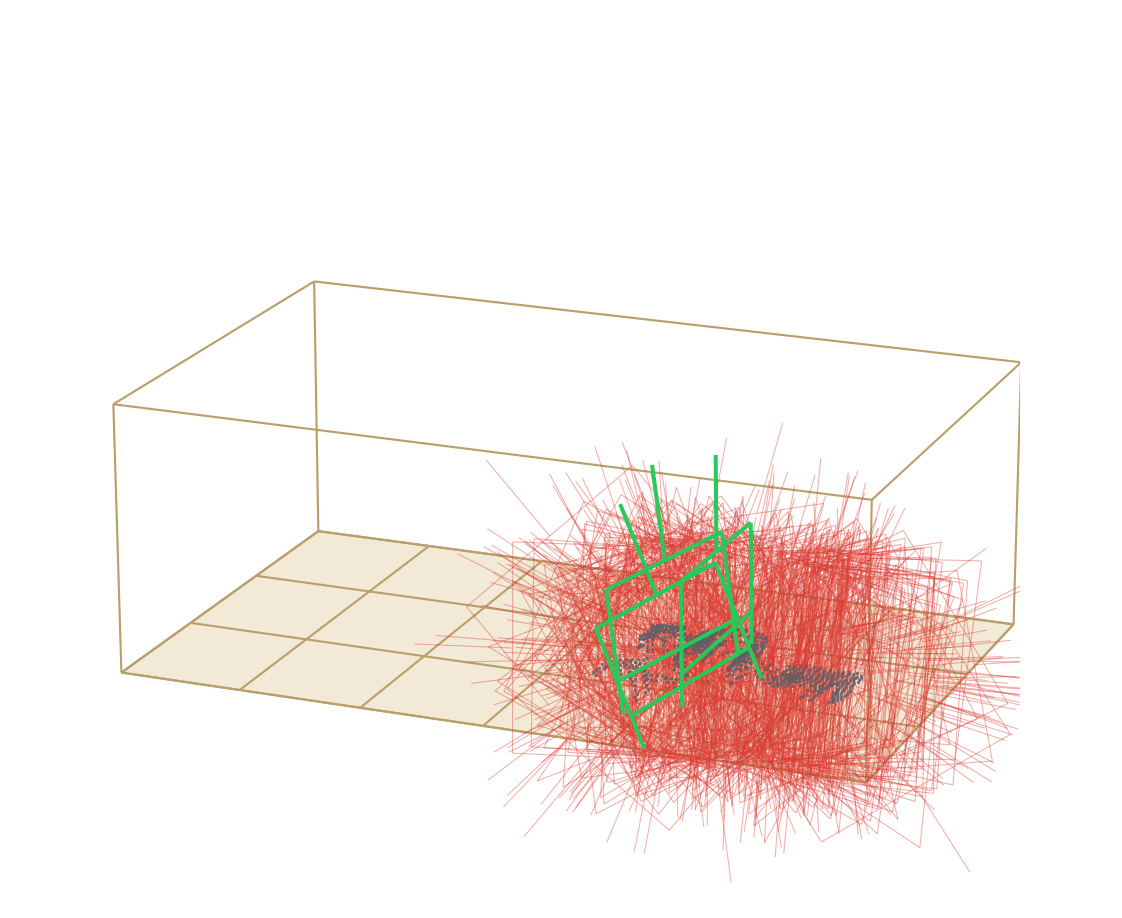
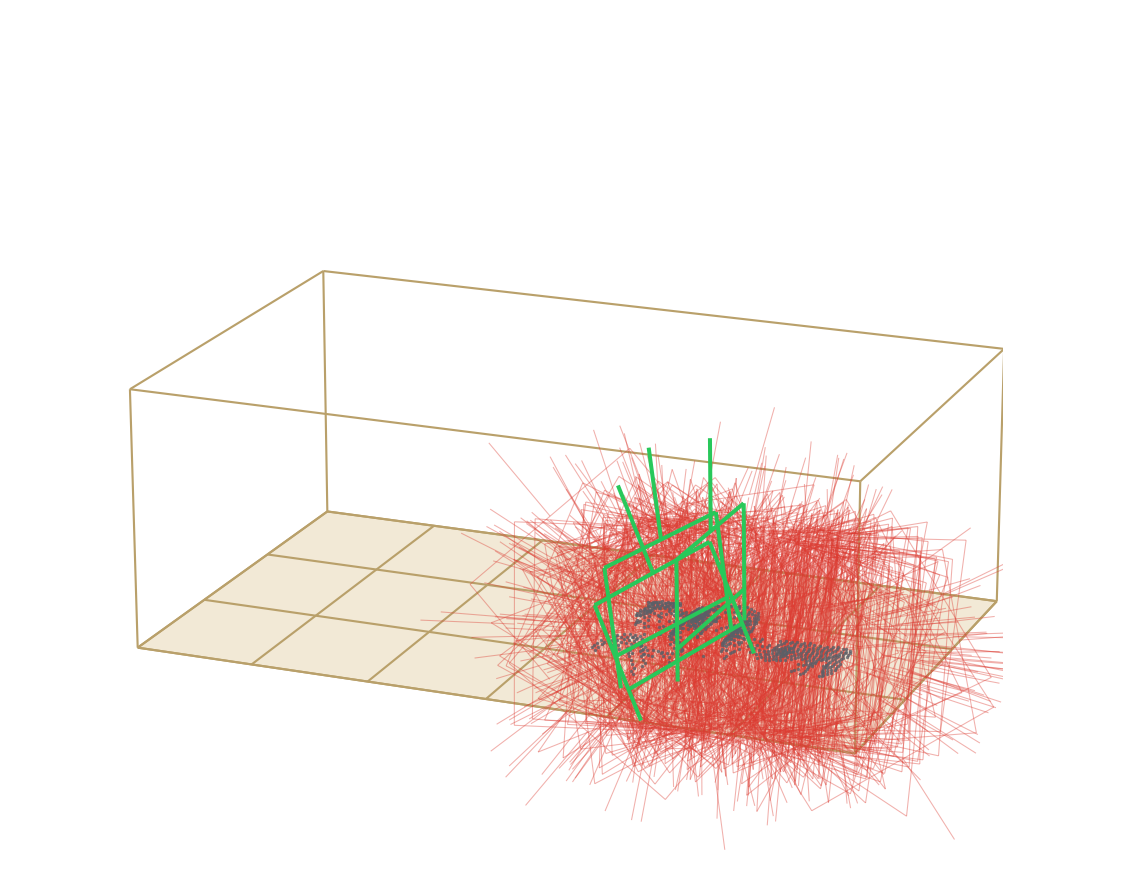
Cover: box photo on top, before/after underneath, rounded corners

diff --git a/scripts/make_hero.py b/scripts/make_hero.py
@@ -1,25 +1,43 @@
 #!/usr/bin/env python3
-"""Header banner: the before/after of the regeneration, over a frame of the cell running
-in Isaac Sim with the same box in shot.
+"""Header banner: the box as the cell sees it, and underneath what the grasp generator
+proposes for the cable in it, before and after regenerating the candidates.
 
     python scripts/make_hero.py
 
-Background: figures/src/frame_cell.jpg, a frame of the cell's own recording (the flat
-cable and the drill are the objects inside the box). Panels: rendered from
-data/seed7/{regen_off,regen_on}.npz by scripts/make_visor_shot.py.
+Photo: figures/src/frame_cell.jpg, a frame of the cell's own recording.
+Panels: rendered from data/seed7/{regen_off,regen_on}.npz by scripts/make_visor_shot.py.
 """
 import importlib.util, json, os, sys
-from PIL import Image, ImageDraw, ImageEnhance, ImageFont, ImageFilter
+from PIL import Image, ImageDraw, ImageFont, ImageFilter
 
 HERE = os.path.dirname(os.path.abspath(__file__))
 SRC = os.path.join(HERE, "..", "figures", "src", "frame_cell.jpg")
 D = os.path.join(HERE, "..", "data", "seed7")
 OUT = os.path.join(HERE, "..", "figures", "hero.png")
-W, H = 2400, 1210
-BG, INK, DIM, GREEN, RED = (12, 14, 18), (244, 246, 249), (152, 160, 172), (45, 200, 105), (222, 70, 60)
-F = "/usr/share/fonts/truetype/dejavu/DejaVuSans.ttf"
+W = 2400
+BG, INK, DIM, GREEN, RED = (13, 15, 19), (244, 246, 249), (150, 158, 170), (45, 200, 105), (222, 70, 60)
+FT = "/usr/share/fonts/truetype/dejavu/DejaVuSans.ttf"
 FB = "/usr/share/fonts/truetype/dejavu/DejaVuSans-Bold.ttf"
-font = lambda s, b=False: ImageFont.truetype(FB if b else F, s)
+font = lambda s, b=False: ImageFont.truetype(FB if b else FT, s)
+RADIUS = 26
+
+def rounded(img, radius=RADIUS):
+    """Copy of img with rounded corners, as RGBA."""
+    m = Image.new("L", img.size, 0)
+    ImageDraw.Draw(m).rounded_rectangle([0, 0, img.width - 1, img.height - 1], radius, fill=255)
+    out = img.convert("RGBA"); out.putalpha(m)
+    return out
+
+def place(canvas, img, xy, radius=RADIUS):
+    """Paste with rounded corners and a soft drop shadow."""
+    card = rounded(img, radius)
+    pad = 46
+    sh = Image.new("RGBA", (card.width + 2 * pad, card.height + 2 * pad), (0, 0, 0, 0))
+    ImageDraw.Draw(sh).rounded_rectangle([pad, pad + 8, pad + card.width, pad + card.height + 8],
+                                         radius, fill=(0, 0, 0, 205))
+    sh = sh.filter(ImageFilter.GaussianBlur(26))
+    canvas.alpha_composite(sh, (xy[0] - pad, xy[1] - pad))
+    canvas.alpha_composite(card, xy)
 
 def panels():
     spec = importlib.util.spec_from_file_location("vs", os.path.join(HERE, "make_visor_shot.py"))
@@ -30,57 +48,55 @@ def panels():
     out = []
     for tag in ("regen_off", "regen_on"):
         png = os.path.join(HERE, "..", "figures", "src", f"panel_{tag}.png")
-        n, ok = vs.render_panel(os.path.join(D, f"{tag}.npz"), b, png, size=(6.6, 5.4), dpi=170)
+        n, ok = vs.render_panel(os.path.join(D, f"{tag}.npz"), b, png, size=(6.6, 5.2), dpi=170)
         out.append((Image.open(png).convert("RGB"), n, ok))
     return out
 
 def main() -> int:
-    src = Image.open(SRC).convert("RGB")
-    scene = src.crop((720, 470, 1844, 1360))
-    canvas = Image.new("RGB", (W, H), BG)
-    r = max(W / scene.width, H / scene.height)
-    bg = scene.resize((int(scene.width * r), int(scene.height * r)), Image.LANCZOS)
-    canvas.paste(bg, ((W - bg.width) // 2, (H - bg.height) // 2))
-    canvas = ImageEnhance.Brightness(canvas).enhance(0.30)          # the render stays as texture, not subject
-    canvas = ImageEnhance.Color(canvas).enhance(0.75)
-    d = ImageDraw.Draw(canvas)
-
-    d.text((W // 2, 52), "G R A S P G E N - X   I N S I D E   A   C O N T A I N E R",
-           font=font(23, True), fill=DIM, anchor="ma")
-    d.text((W // 2, 100), "400 grasps proposed. Three of them fit.", font=font(58, True), fill=INK, anchor="ma")
-    d.text((W // 2, 178), "What a cardboard box does to an off-the-shelf grasp generator, and what "
-                          "regenerating the candidates recovers.", font=font(26), fill=DIM, anchor="ma")
+    photo = Image.open(SRC).convert("RGB").crop((980, 540, 1844, 1240))
+    pw_photo = 980
+    photo = photo.resize((pw_photo, int(photo.height * pw_photo / photo.width)), Image.LANCZOS)
 
     ps = panels()
     pw = 820
     cards = [(p.resize((pw, int(p.height * pw / p.width)), Image.LANCZOS), n, ok) for p, n, ok in ps]
-    gap, top = 100, 300
+    gap = 90
+    y_photo, y_panels = 250, 250 + photo.height + 190
+    H = y_panels + cards[0][0].height + 250
+
+    canvas = Image.new("RGBA", (W, H), BG + (255,))
+    d = ImageDraw.Draw(canvas)
+    d.text((W // 2, 60), "G R A S P G E N - X   I N S I D E   A   C O N T A I N E R",
+           font=font(23, True), fill=DIM, anchor="ma")
+    d.text((W // 2, 108), "400 grasps proposed. Three of them fit.", font=font(58, True), fill=INK, anchor="ma")
+    d.text((W // 2, 186), "What a cardboard box does to an off-the-shelf grasp generator, and what "
+                          "regenerating the candidates recovers.", font=font(26), fill=DIM, anchor="ma")
+
+    place(canvas, photo, ((W - photo.width) // 2, y_photo))
+    d.text((W // 2, y_photo + photo.height + 34),
+           "the cell: a flat USB-C cable and a drill inside a 38 × 18 × 14 cm box",
+           font=font(25), fill=DIM, anchor="ma")
+
     x0 = (W - (2 * pw + gap)) // 2
     for i, (card, n, ok) in enumerate(cards):
         x = x0 + i * (pw + gap)
-        sh = Image.new("RGBA", (card.width + 80, card.height + 80), (0, 0, 0, 0))
-        ImageDraw.Draw(sh).rectangle([40, 40, card.width + 40, card.height + 40], fill=(0, 0, 0, 200))
-        bx = (x - 40, top - 40, x + card.width + 40, top + card.height + 40)
-        canvas.paste(Image.alpha_composite(canvas.crop(bx).convert("RGBA"),
-                                           sh.filter(ImageFilter.GaussianBlur(24))).convert("RGB"), bx[:2])
-        canvas.paste(card, (x, top))
-        d.rectangle([x - 1, top - 1, x + card.width, top + card.height], outline=(88, 94, 106), width=2)
-        cx = x + card.width // 2
-        d.text((cx, top - 56), ("as sampled", "after constraint-aware regeneration")[i],
+        d.text((x + pw // 2, y_panels - 56), ("as sampled", "after constraint-aware regeneration")[i],
                font=font(30, True), fill=INK, anchor="ma")
-        d.text((cx, top + card.height + 26), f"{ok}", font=font(72, True),
-               fill=GREEN if i else DIM, anchor="ma")
-        d.text((cx, top + card.height + 122), f"usable of the {n} candidates",
-               font=font(25), fill=DIM, anchor="ma")
+        place(canvas, card, (x, y_panels))
+        cx, by = x + pw // 2, y_panels + card.height
+        d.text((cx, by + 30), f"{ok}", font=font(72, True), fill=GREEN if i else DIM, anchor="ma")
+        d.text((cx, by + 126), f"usable of the {n} candidates for the cable",
+               font=font(24), fill=DIM, anchor="ma")
 
     y = H - 52
     d.text((W // 2 - 300, y), "──", font=font(24, True), fill=GREEN, anchor="ma")
-    d.text((W // 2 - 276, y - 4), "clears the walls, the floor, the neighbours and the descent", font=font(23), fill=DIM)
+    d.text((W // 2 - 276, y - 4), "clears the walls, the floor, the neighbours and the descent",
+           font=font(23), fill=DIM)
     d.text((W // 2 + 470, y), "──", font=font(24, True), fill=RED, anchor="ma")
     d.text((W // 2 + 494, y - 4), "killed by the box", font=font(23), fill=DIM)
 
-    canvas.save(OUT, quality=95)
-    print("written", OUT, canvas.size)
+    canvas.convert("RGB").save(OUT, quality=95)
+    print("written", OUT, (W, H))
     return 0
 
 if __name__ == "__main__":

diff --git a/README.md b/README.md
@@ -11,10 +11,9 @@
 
 ![GraspGen-X inside a container](figures/hero.png)
 
-<sub>A flat cable lying at the bottom of a cardboard box, with the cell that measured it
-behind. Every candidate GraspGen-X proposed is drawn the way the cell's own funnel viewer
-draws it. Both runs use the same seeded drop, so the only difference between them is the
-regeneration. Numbers and method in §4.</sub>
+<sub>Every candidate GraspGen-X proposed for the cable, drawn the way the cell's own
+funnel viewer draws it. Both runs use the same seeded drop, so the only difference between
+them is the regeneration. Numbers and method in §4.</sub>
 
 <video src="https://github.com/jesusmerinomar/graspgenx-bin-analysis/raw/main/media/cell_demo.mp4" controls muted width="900"></video>
 
